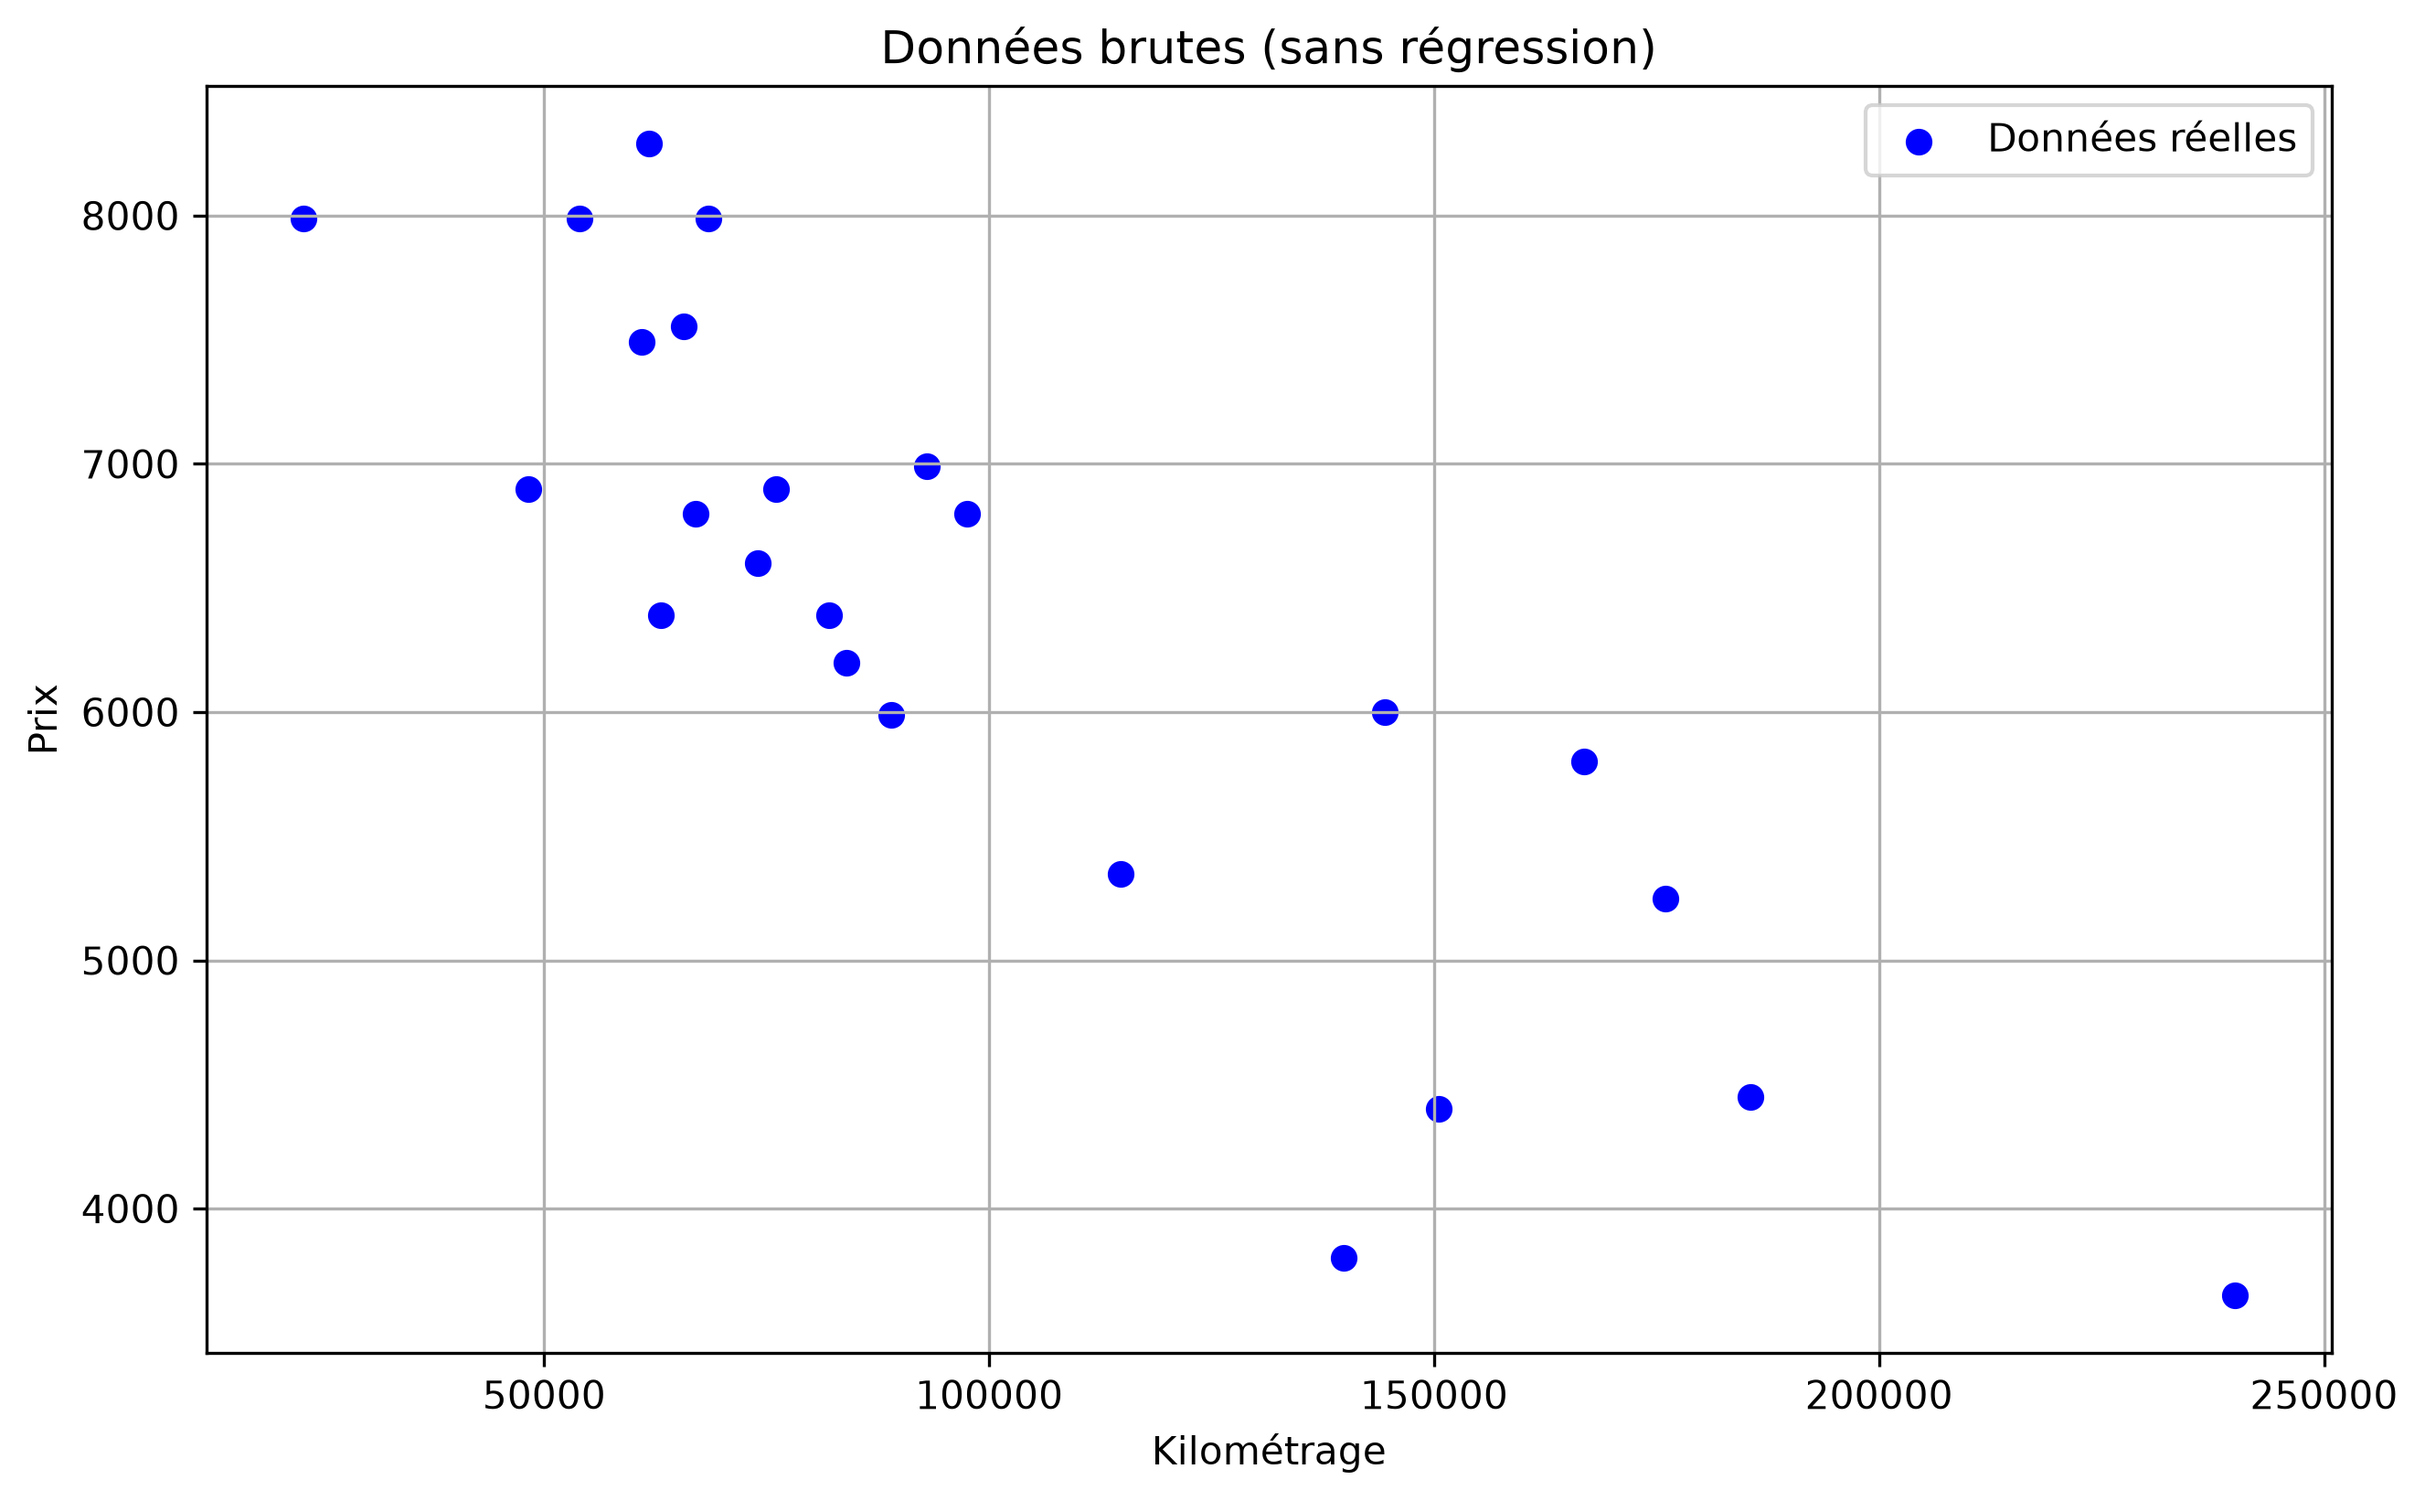
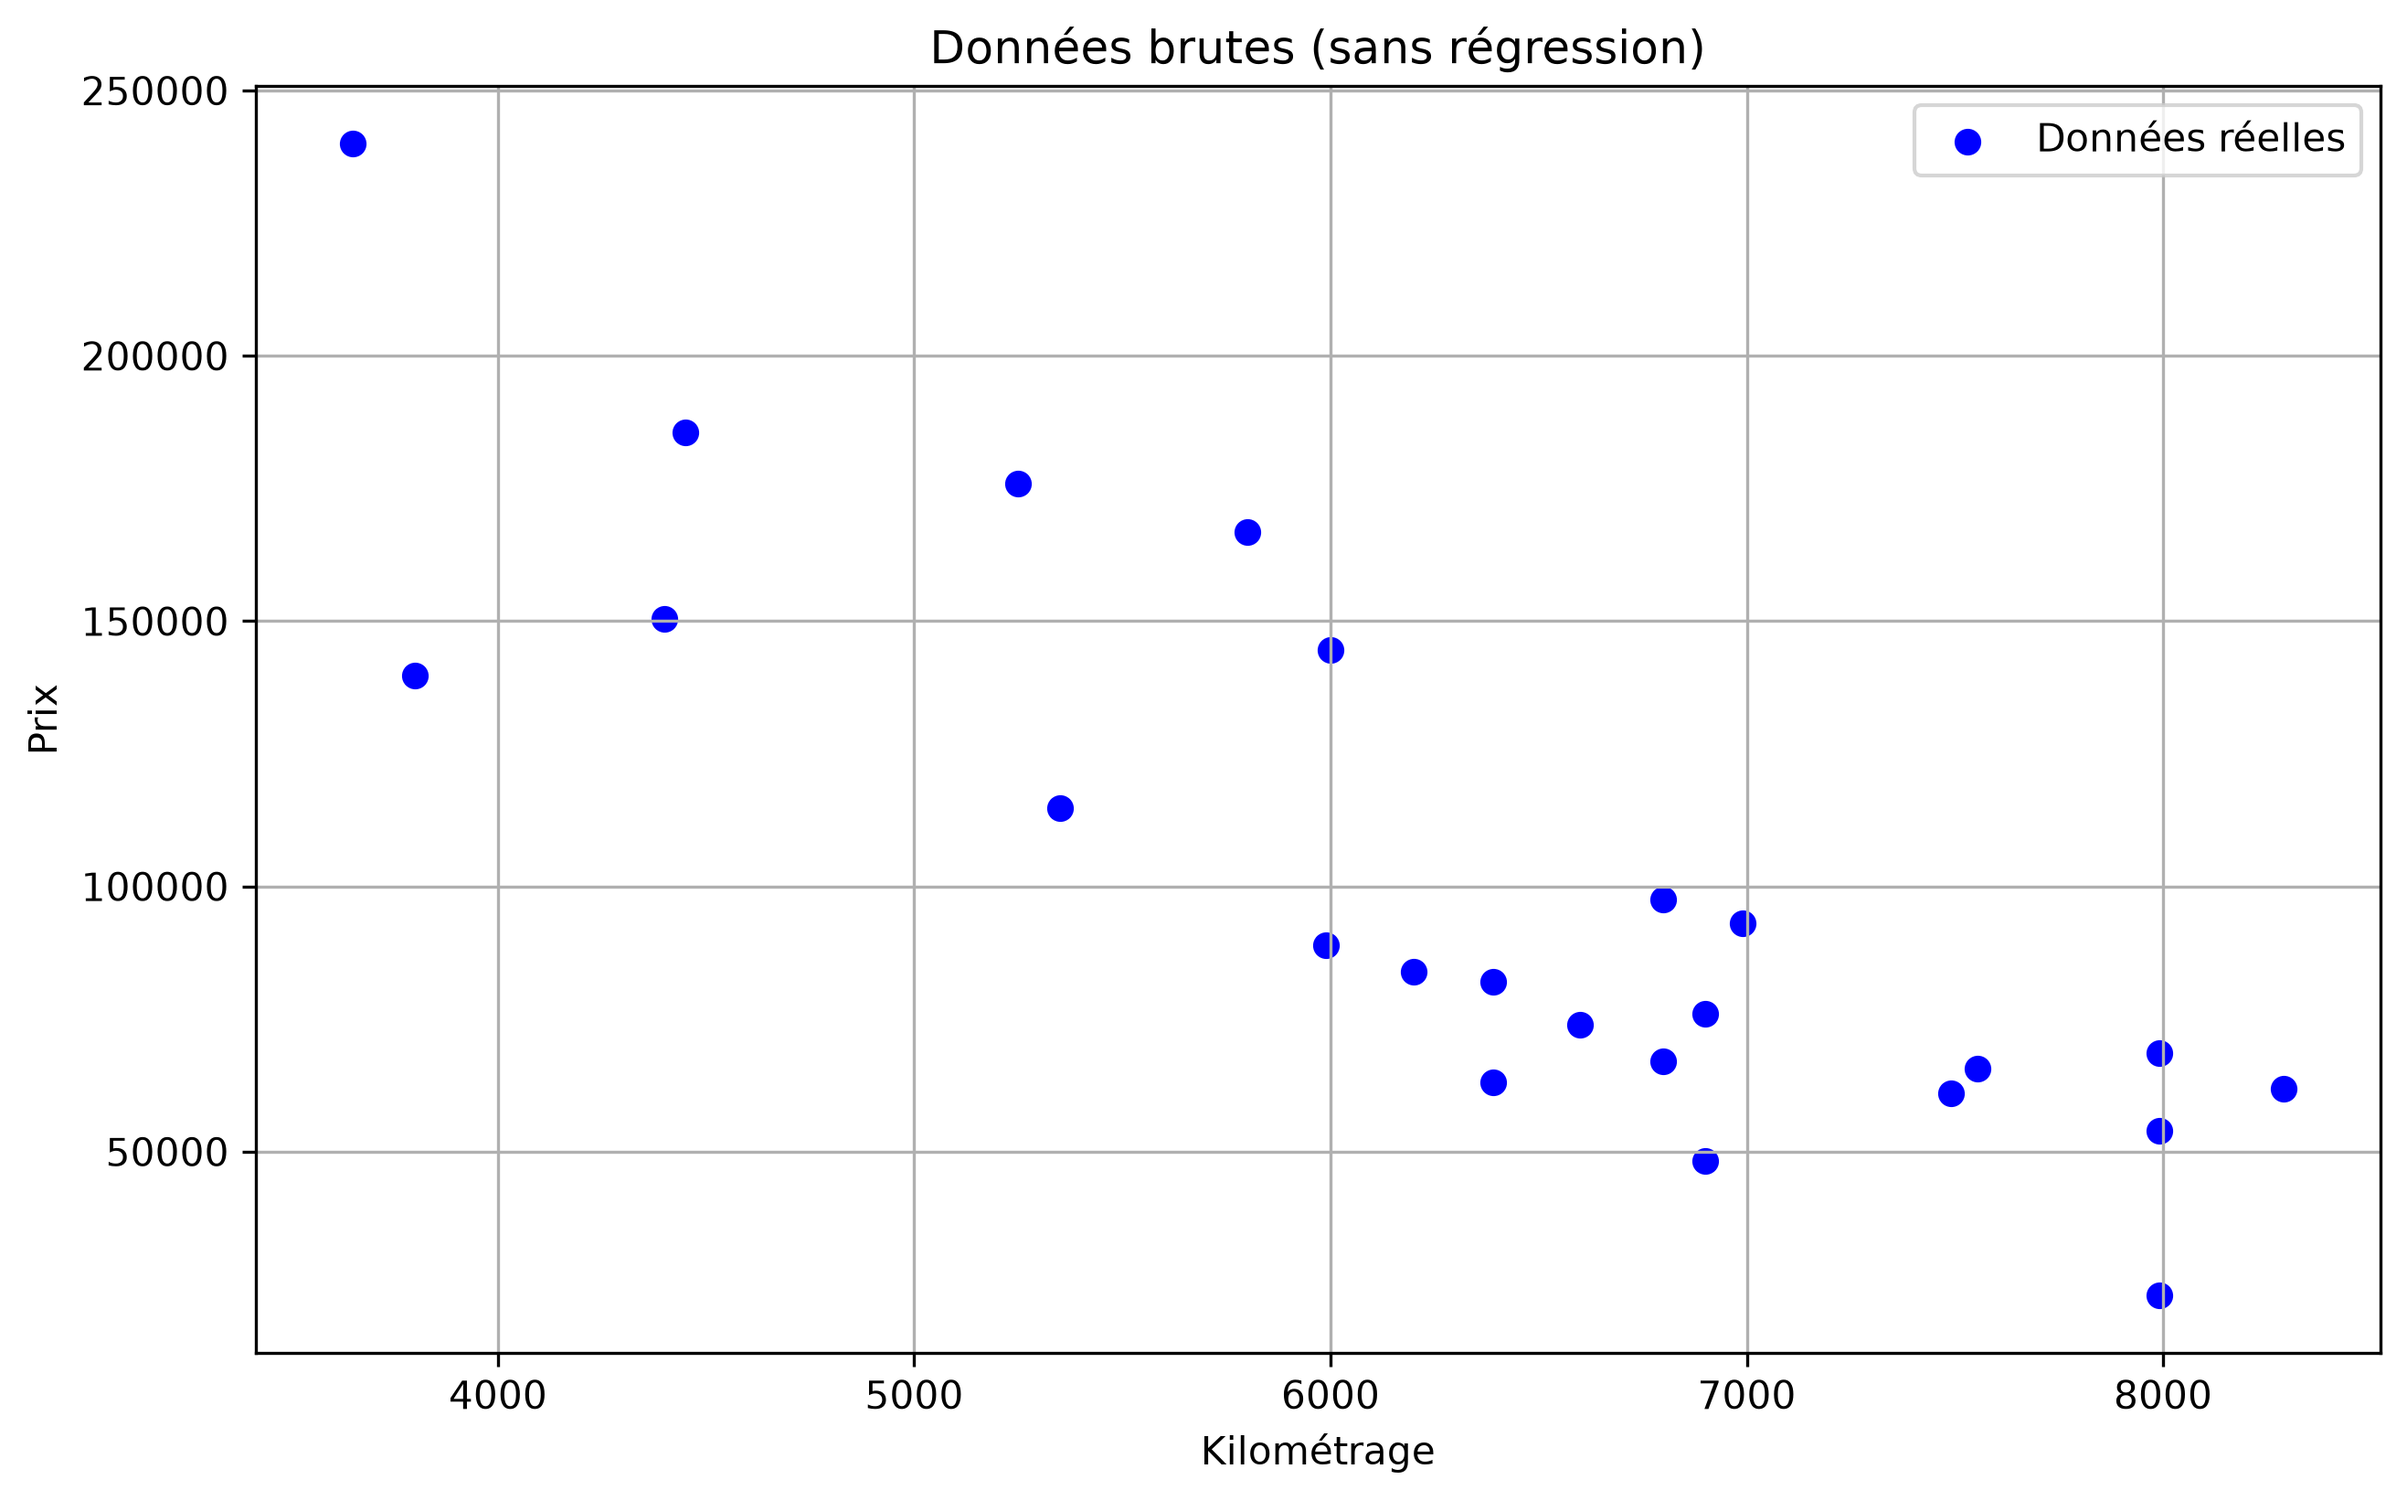
pb avec les header niveau parsing

diff --git a/src/parsing.py b/src/parsing.py
@@ -19,7 +19,7 @@ def parser(filepath: str) -> list:
         dir = Path("data")
         dir.mkdir(exist_ok=True)
         data_list = []
-        coord = set()
+        check = set()
 
         if not (os.path.exists("data/theta.pkl")):
             create_theta_file(0.0, 0.0)
@@ -28,17 +28,27 @@ def parser(filepath: str) -> list:
             f = csv.DictReader(fcsv)
 
             for row in f:
-                for k, v in row.items():
-                    coord.add(k)
-                    try:
-                        if not (isinstance(v, int)):
-                            row[k] = int(v)
+                for k in row.keys():
+                    print()
+                    check.add(k)
 
-                    except ValueError:
-                        print(f"La valeur {k}: {v} n'est pas une INTEGER, par "
-                              "conséquent cette valeur a été ignorée")
+                if not (row.get("km") or row.get("price")):
+                    continue
 
-                data_list.append(row)
+                km = row.get("km")
+                price = row.get("price")
+
+                try:
+                    km = int(km)
+                    price = int(price)
+
+                except ValueError:
+                    continue
+
+                if (km < 0 or price < 0):
+                    continue
+
+                data_list.append({"km": km, "price": price})
 
     except FileNotFoundError:
         print("Fichier introuvable !" + "\n"
@@ -47,9 +57,22 @@ def parser(filepath: str) -> list:
         exit()
 
     except Exception:
-        print("pb")
+        print("\n" + "Le data.csv n'est pas conforme, les entêtes doivent être"
+              " km et price" + "\n")
+        exit()
 
-    return [data_list, tuple(coord)]
+    if (len(data_list) < 2):
+        print("Le data.csv ne contient pas assez de données, minimum 2")
+        exit()
+
+    print
+
+    if (check[0] != "km" or check[1] != "price"):
+        print("\n" + "Le header du data.csv nest pas conforme"
+              f"{check[0], check[1]} -> km, price" + "\n")
+        exit()
+
+    return (data_list)
 
 
 # *****************************************************************************

diff --git a/main.py b/main.py
@@ -9,19 +9,16 @@ import os
 
 from src.parsing import parser
 from src.display import estimate_display, learning_display
-# from src.prog import estimatePrice, learningRate
 
 
-def dispatch(choice: any) -> None:
+def dispatch(choice: any, data: list) -> None:
     os.system("clear")
 
     try:
         choice = int(choice)
 
-    except ValueError:
+    except (ValueError, TypeError):
         main()
-
-    data, coord = parser("data/data.csv")
 
     if (choice == 1):
         estimate_display()
@@ -38,6 +35,8 @@ def dispatch(choice: any) -> None:
 def main() -> None:
     os.system("clear")
 
+    data = parser("data/data.csv")
+
     print("\n" + "Bienvenue sur ft_linear_regression".center(79, " ") + "\n\n")
 
     print("1. Estimer un prix")
@@ -46,7 +45,7 @@ def main() -> None:
 
     choice = input("Faites votre choix: ")
 
-    dispatch(choice)
+    dispatch(choice, data)
 
 
 if __name__ == "__main__":

diff --git a/src/prog.py b/src/prog.py
@@ -63,6 +63,7 @@ def learningRate(data) -> tuple:
     theta0, theta1 = take_theta_file()
 
     for row in data:
+        print(row)
         try:
             km = row['km'] / 100000.0
             price = row['price'] / 10000.0
